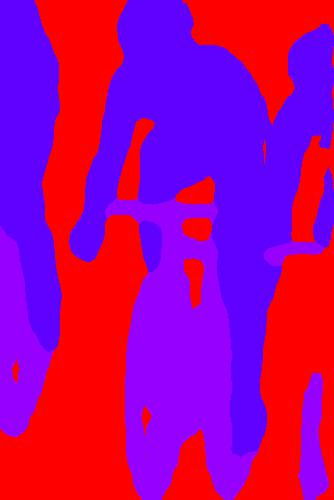
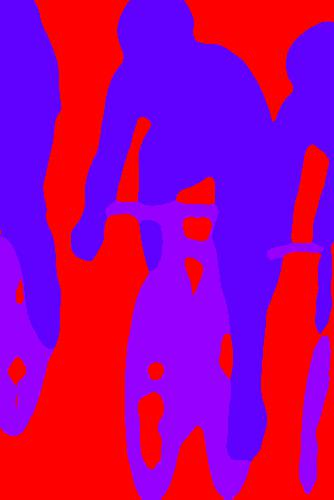
added multi-scale predictions

diff --git a/pspnet.py b/pspnet.py
@@ -24,6 +24,7 @@ __author__ = "Vlad Kryvoruchko, Chaoyue Wang, Jeffrey Hu & Julian Tatsch"
 
 # These are the means for the ImageNet pretrained ResNet
 DATA_MEAN = np.array([[[123.68, 116.779, 103.939]]])  # RGB order
+EVALUATION_SCALES = [1.0]  # must be all floats!
 
 
 class PSPNet(object):
@@ -62,6 +63,7 @@ class PSPNet(object):
 
         regular_prediction = self.model.predict(input_data)[0]
         if flip_evaluation:
+            print("Predict flipped")
             flipped_prediction = np.fliplr(self.model.predict(np.flip(input_data, axis=2))[0])
             prediction = (regular_prediction + flipped_prediction)
         else:
@@ -165,7 +167,7 @@ def visualize_prediction(prediction):
     plt.show()
 
 
-def sliding_prediction(full_image, net, flip_evaluation):
+def predict_sliding(full_image, net, flip_evaluation):
     """Predict on tiles of exactly the network input shape so nothing gets squeezed."""
     tile_size = net.input_shape
     classes = net.model.outputs[0].shape[3]
@@ -184,10 +186,9 @@ def sliding_prediction(full_image, net, flip_evaluation):
             y1 = int(row * stride)
             x2 = min(x1 + tile_size[1], full_image.shape[1])
             y2 = min(y1 + tile_size[0], full_image.shape[0])
-            x1 = int(x2 - tile_size[1])
-            y1 = int(y2 - tile_size[0])
-            if x1 < 0:  # for portrait images the x1 underflows sometimes
-                x1 = 0
+            x1 = max(int(x2 - tile_size[1]), 0)  # for portrait images the x1 underflows sometimes
+            y1 = max(int(y2 - tile_size[0]), 0)  # for very few rows y1 underflows
+
             img = full_image[y1:y2, x1:x2]
             padded_img = pad_image(img, tile_size)
             # plt.imshow(padded_img)
@@ -207,6 +208,29 @@ def sliding_prediction(full_image, net, flip_evaluation):
     return full_probs
 
 
+def predict_multi_scale(full_image, net, scales, sliding_evaluation, flip_evaluation):
+    """Predict an image by looking at it with different scales."""
+    classes = net.model.outputs[0].shape[3]
+    full_probs = np.zeros((full_image.shape[0], full_image.shape[1], classes))
+    h_ori, w_ori = full_image.shape[:2]
+    for scale in scales:
+        print("Predicting image scaled by %f" % scale)
+        scaled_img = misc.imresize(full_image, size=scale, interp="bilinear")
+        if sliding_evaluation:
+            scaled_probs = predict_sliding(scaled_img, net, flip_evaluation)
+        else:
+            scaled_probs = net.predict(scaled_img, flip_evaluation)
+        # scale probs up to full size
+        h, w = scaled_probs.shape[:2]
+        probs = ndimage.zoom(scaled_probs, (1.*h_ori/h, 1.*w_ori/w, 1.),  # FIXME: must scale up exactly to full_image.shape
+                             order=1, prefilter=False)
+        # visualize_prediction(probs)
+        # integrate probs over all scales
+        full_probs += probs
+    full_probs /= len(scales)
+    return full_probs
+
+
 if __name__ == "__main__":
     parser = argparse.ArgumentParser()
     parser.add_argument('-m', '--model', type=str, default='pspnet50_ade20k',
@@ -219,10 +243,12 @@ if __name__ == "__main__":
     parser.add_argument('-o', '--output_path', type=str, default='example_results/ade20k.jpg',
                         help='Path to output')
     parser.add_argument('--id', default="0")
-    parser.add_argument('-s', '--sliding_prediction', action='store_true',
-                        help="Whether the network should be slided along the original image for prediction.")
-    parser.add_argument('-fe', '--flip_evaluation', action='store_true',
-                        help="Whether the network should evaluate both image and flipped image.")
+    parser.add_argument('-s', '--sliding', action='store_true',
+                        help="Whether the network should be slided over the original image for prediction.")
+    parser.add_argument('-f', '--flip', action='store_true',
+                        help="Whether the network should predict on both image and flipped image.")
+    parser.add_argument('-ms', '--multi_scale', action='store_true',
+                        help="Whether the network should predict on multiple scales.")
     args = parser.parse_args()
 
     environ["CUDA_VISIBLE_DEVICES"] = args.id
@@ -248,12 +274,10 @@ if __name__ == "__main__":
         else:
             print("Network architecture not implemented.")
 
-        # TODO: implement score flips
+        if args.multi_scale:
+            EVALUATION_SCALES = [0.5, 0.75, 1.0, 1.25, 1.5, 1.75]  # must be all floats!
 
-        if args.sliding_prediction:
-            probs = sliding_prediction(img, pspnet, args.flip_evaluation)
-        else:
-            probs = pspnet.predict(img, args.flip_evaluation)
+        probs = predict_multi_scale(img, pspnet, EVALUATION_SCALES, args.sliding, args.flip)
 
         print("Writing results...")
 
